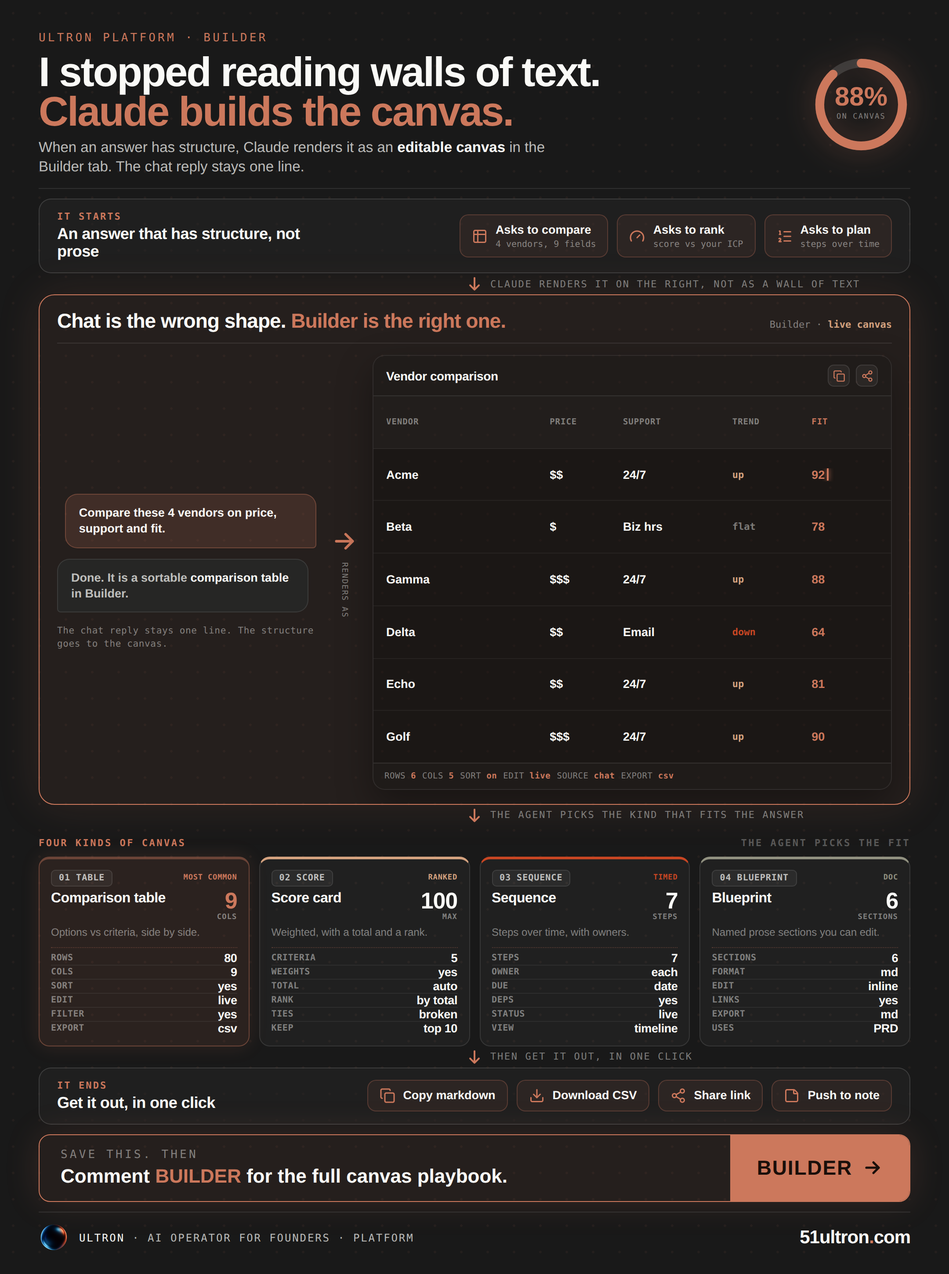
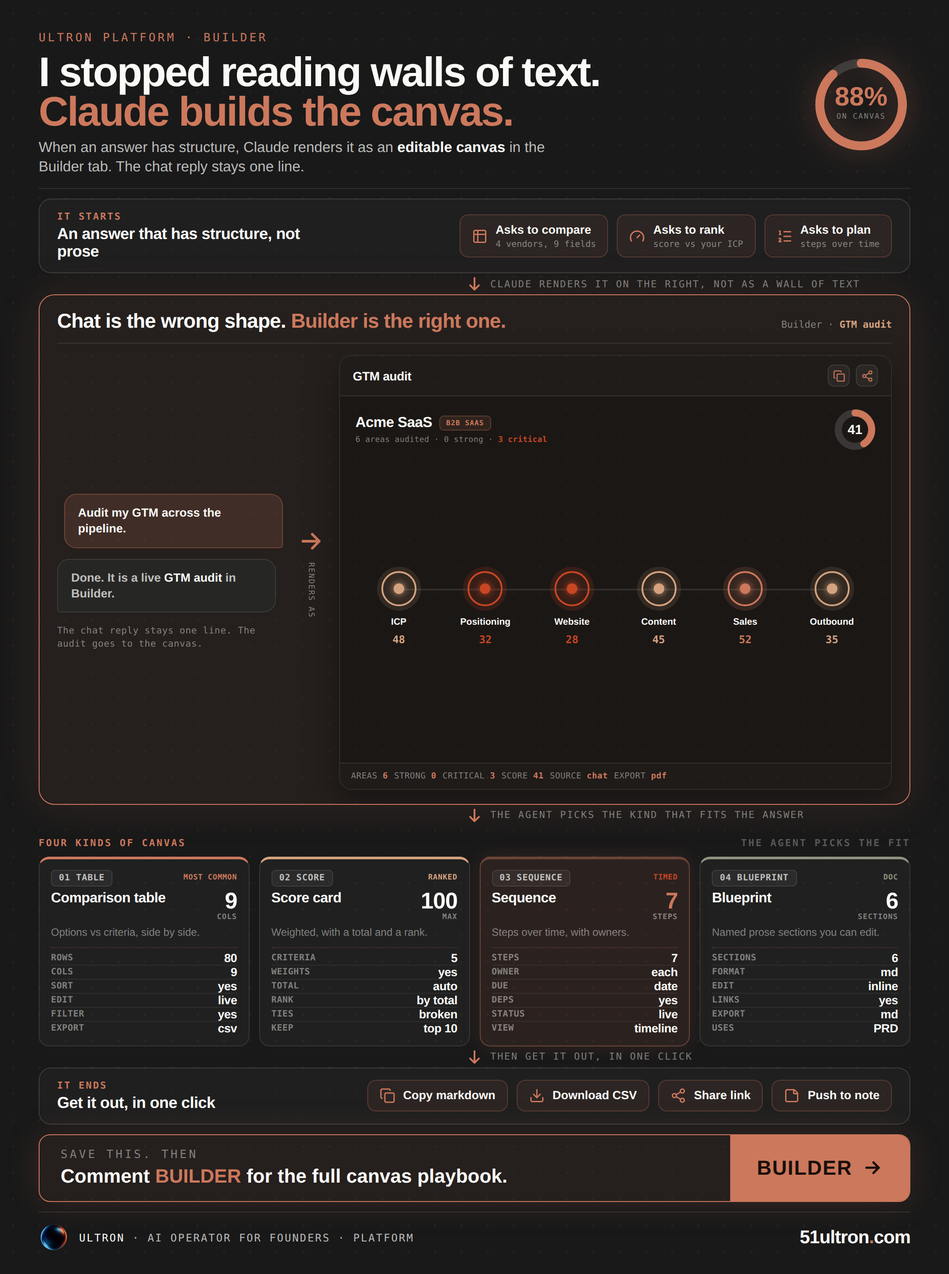
content: swap Builder focal to a mini GTM audit (pipeline health)
Replaces the generic vendor-comparison number table with a visual modeled on
the real Ultron GTM audit canvas: company header + 41/100 score ring + a
6-stage pipeline-health strip (ICP -> Positioning -> Website -> Content ->
Sales -> Outbound), nodes color-coded by score band (critical/weak/ok) in the
Dark Ultron palette. Chat prompt becomes 'Audit my GTM', focal meta + canvas
title now 'GTM audit', highlighted canvas-kind moves from Table to Sequence.
Both variants, 1080x1450 (scrollHeight verified), DM fonts, logo base64, scrubbed.

https://claude.ai/code/session_018fS7xMwDiJUxoNS3zo3BKw

diff --git a/content/docs-07-builder-linkedin-journey.html b/content/docs-07-builder-linkedin-journey.html
@@ -34,7 +34,7 @@ body{background:#0d0d0d;display:flex;justify-content:center;padding:24px 0;font-
 .focal-h .h{font-size:23px;font-weight:900;letter-spacing:-.5px;color:var(--ivory);}.focal-h .h em{color:var(--book);font-style:normal;}
 .focal-h .meta{margin-left:auto;font-family:'DM Mono',monospace;font-size:11px;color:var(--ink46);}.focal-h .meta b{color:var(--kraft);font-weight:700;}
 .split2{flex:1;min-height:0;display:flex;align-items:stretch;gap:16px;padding-top:13px;}
-.chatcol{width:31%;display:flex;flex-direction:column;justify-content:center;gap:12px;flex-shrink:0;}
+.chatcol{width:27%;display:flex;flex-direction:column;justify-content:center;gap:12px;flex-shrink:0;}
 .cbub{padding:12px 15px;font-size:13.5px;font-weight:600;line-height:1.32;max-width:97%;}
 .cbub.u{background:rgba(204,120,92,.16);border:1px solid rgba(204,120,92,.34);color:var(--ivory);align-self:flex-end;border-radius:14px 14px 4px 14px;}
 .cbub.a{background:var(--slate2);border:1px solid var(--rule);color:var(--ink70);align-self:flex-start;border-radius:14px 14px 14px 4px;}
@@ -47,17 +47,27 @@ body{background:#0d0d0d;display:flex;justify-content:center;padding:24px 0;font-
 .cv-bar{display:flex;align-items:center;justify-content:space-between;padding:10px 15px;border-bottom:1px solid var(--rule);background:rgba(255,255,255,.025);}
 .cv-nm{font-size:14px;font-weight:800;color:var(--ivory);letter-spacing:-.2px;}
 .cv-act{display:flex;gap:7px;}.cv-act i{width:25px;height:25px;border-radius:7px;background:rgba(250,250,247,.05);border:1px solid var(--rule);display:flex;align-items:center;justify-content:center;}.cv-act i svg{width:14px;height:14px;}
-.cvtbl{flex:1;display:flex;flex-direction:column;}
-.cvr{display:grid;grid-template-columns:1.3fr .55fr .85fr .6fr .55fr;gap:8px;align-items:center;padding:0 15px;border-bottom:1px solid rgba(250,250,247,.05);}
-.cvtbl .cvr{flex:1;}
-.cvr:last-child{border-bottom:none;}
-.cvr span{font-size:13.5px;font-weight:700;color:var(--ivory);white-space:nowrap;overflow:hidden;text-overflow:ellipsis;}
-.cvr.h{background:rgba(255,255,255,.03);}
-.cvr.h span{font-family:'DM Mono',monospace;font-size:9.5px;font-weight:600;letter-spacing:.05em;text-transform:uppercase;color:var(--ink46);}
-.cvr .srt,.cvr.h .srt{color:var(--book);}
-.cvr .up{color:var(--kraft);font-size:11px;font-family:'DM Mono',monospace;}.cvr .dn{color:var(--book-d);font-size:11px;font-family:'DM Mono',monospace;}.cvr .fl{color:var(--ink46);font-size:11px;font-family:'DM Mono',monospace;}
-.edit{position:relative;color:var(--book) !important;}
-.edit::after{content:'';display:inline-block;width:2px;height:14px;background:var(--book);margin-left:2px;vertical-align:-2px;box-shadow:0 0 6px var(--book);}
+.gaud{flex:1;display:flex;flex-direction:column;padding:15px 18px;gap:14px;min-height:0;}
+.gaud-h{display:flex;align-items:center;gap:11px;flex-shrink:0;}
+.gaud-co{display:flex;align-items:center;gap:8px;font-size:16.5px;font-weight:800;color:var(--ivory);letter-spacing:-.3px;}
+.gaud-tag{font-family:'DM Mono',monospace;font-size:8px;font-weight:600;letter-spacing:.07em;text-transform:uppercase;color:var(--book);background:rgba(204,120,92,.12);border:1px solid rgba(204,120,92,.3);padding:3px 7px;border-radius:5px;}
+.gaud-sub{font-family:'DM Mono',monospace;font-size:9px;color:var(--ink46);margin-top:5px;letter-spacing:.02em;}
+.gaud-sub b{color:var(--book-d);font-weight:600;}
+.gaud-ring{margin-left:auto;position:relative;width:46px;height:46px;display:flex;align-items:center;justify-content:center;flex-shrink:0;}
+.gaud-ring svg{width:46px;height:46px;transform:rotate(-90deg);}
+.gaud-ring .gt{fill:none;stroke:var(--ink14);stroke-width:8;}
+.gaud-ring .ga{fill:none;stroke:var(--book);stroke-width:8;stroke-linecap:round;}
+.gaud-ring .gn{position:absolute;font-size:15px;font-weight:900;color:var(--ivory);line-height:1;}
+.pipe{flex:1;display:flex;align-items:stretch;min-height:0;}
+.pstage{flex:1;display:flex;flex-direction:column;align-items:center;justify-content:center;gap:8px;min-width:0;}
+.ptop{position:relative;width:100%;height:50px;display:flex;align-items:center;justify-content:center;}
+.ptop::before,.ptop::after{content:'';position:absolute;top:50%;height:2px;background:var(--rule);width:50%;}
+.ptop::before{left:0;}.ptop::after{right:0;}
+.pstage:first-child .ptop::before{display:none;}.pstage:last-child .ptop::after{display:none;}
+.pnode{position:relative;z-index:1;width:40px;height:40px;border-radius:50%;border:2px solid var(--sc);background:var(--scbg);display:flex;align-items:center;justify-content:center;box-shadow:0 0 0 5px var(--scbg);}
+.pnode .pdot{width:12px;height:12px;border-radius:50%;background:var(--sc);box-shadow:0 0 8px var(--sc);}
+.plabel{font-size:10.5px;font-weight:700;color:var(--ivory);text-align:center;line-height:1.08;}
+.pscore{font-family:'DM Mono',monospace;font-size:12px;font-weight:600;color:var(--sc);line-height:1;}
 .cvstats{flex-shrink:0;display:flex;gap:7px;padding:9px 13px;border-top:1px solid var(--rule);background:rgba(255,255,255,.02);flex-wrap:wrap;}
 .cvstat{font-family:'DM Mono',monospace;font-size:9.5px;letter-spacing:.03em;color:var(--ink46);}.cvstat b{color:var(--book);font-weight:600;}
 /* KINDS strip */
@@ -111,26 +121,28 @@ body{background:#0d0d0d;display:flex;justify-content:center;padding:24px 0;font-
 
 <div class="arrow"><svg viewBox="0 0 24 24"><path d="M12 4v16M6 14l6 6 6-6"/></svg><span class="lbl">Claude renders it on the right, not as a wall of text</span></div>
 
-<div class="focal"><div class="focal-h"><div class="h">Chat is the wrong shape. <em>Builder is the right one.</em></div><div class="meta">Builder &middot; <b>live canvas</b></div></div>
+<div class="focal"><div class="focal-h"><div class="h">Chat is the wrong shape. <em>Builder is the right one.</em></div><div class="meta">Builder &middot; <b>GTM audit</b></div></div>
 <div class="split2">
 <div class="chatcol">
-<div class="cbub u">Compare these 4 vendors on price, support and fit.</div>
-<div class="cbub a">Done. It is a sortable <b>comparison table</b> in Builder.</div>
-<div class="chint">The chat reply stays one line. The structure goes to the canvas.</div>
+<div class="cbub u">Audit my GTM across the pipeline.</div>
+<div class="cbub a">Done. It is a live <b>GTM audit</b> in Builder.</div>
+<div class="chint">The chat reply stays one line. The audit goes to the canvas.</div>
 </div>
 <div class="sarrow2"><svg viewBox="0 0 24 24"><path d="M5 12h14M13 6l6 6-6 6"/></svg><span>renders as</span></div>
 <div class="cv">
-<div class="cv-bar"><span class="cv-nm">Vendor comparison</span><div class="cv-act"><i><svg xmlns="http://www.w3.org/2000/svg" width="1em" height="1em" viewBox="0 0 24 24"><g fill="none" stroke="#CC785C" stroke-linecap="round" stroke-linejoin="round" stroke-width="2"><rect width="14" height="14" x="8" y="8" rx="2" ry="2"/><path d="M4 16c-1.1 0-2-.9-2-2V4c0-1.1.9-2 2-2h10c1.1 0 2 .9 2 2"/></g></svg></i><i><svg xmlns="http://www.w3.org/2000/svg" width="1em" height="1em" viewBox="0 0 24 24"><g fill="none" stroke="#CC785C" stroke-linecap="round" stroke-linejoin="round" stroke-width="2"><circle cx="18" cy="5" r="3"/><circle cx="6" cy="12" r="3"/><circle cx="18" cy="19" r="3"/><path d="m8.59 13.51l6.83 3.98m-.01-10.98l-6.82 3.98"/></g></svg></i></div></div>
-<div class="cvtbl">
-<div class="cvr h"><span>Vendor</span><span>Price</span><span>Support</span><span>Trend</span><span class="srt">Fit</span></div>
-<div class="cvr"><span>Acme</span><span>$$</span><span>24/7</span><span class="up">up</span><span class="edit srt">92</span></div>
-<div class="cvr"><span>Beta</span><span>$</span><span>Biz hrs</span><span class="fl">flat</span><span class="srt">78</span></div>
-<div class="cvr"><span>Gamma</span><span>$$$</span><span>24/7</span><span class="up">up</span><span class="srt">88</span></div>
-<div class="cvr"><span>Delta</span><span>$$</span><span>Email</span><span class="dn">down</span><span class="srt">64</span></div>
-<div class="cvr"><span>Echo</span><span>$$</span><span>24/7</span><span class="up">up</span><span class="srt">81</span></div>
-<div class="cvr"><span>Golf</span><span>$$$</span><span>24/7</span><span class="up">up</span><span class="srt">90</span></div>
+<div class="cv-bar"><span class="cv-nm">GTM audit</span><div class="cv-act"><i><svg xmlns="http://www.w3.org/2000/svg" width="1em" height="1em" viewBox="0 0 24 24"><g fill="none" stroke="#CC785C" stroke-linecap="round" stroke-linejoin="round" stroke-width="2"><rect width="14" height="14" x="8" y="8" rx="2" ry="2"/><path d="M4 16c-1.1 0-2-.9-2-2V4c0-1.1.9-2 2-2h10c1.1 0 2 .9 2 2"/></g></svg></i><i><svg xmlns="http://www.w3.org/2000/svg" width="1em" height="1em" viewBox="0 0 24 24"><g fill="none" stroke="#CC785C" stroke-linecap="round" stroke-linejoin="round" stroke-width="2"><circle cx="18" cy="5" r="3"/><circle cx="6" cy="12" r="3"/><circle cx="18" cy="19" r="3"/><path d="m8.59 13.51l6.83 3.98m-.01-10.98l-6.82 3.98"/></g></svg></i></div></div>
+<div class="gaud">
+<div class="gaud-h"><div><div class="gaud-co">Acme SaaS <span class="gaud-tag">B2B SAAS</span></div><div class="gaud-sub">6 areas audited &middot; 0 strong &middot; <b>3 critical</b></div></div><div class="gaud-ring"><svg viewBox="0 0 46 46"><circle class="gt" cx="23" cy="23" r="19"/><circle class="ga" cx="23" cy="23" r="19" stroke-dasharray="49 119.4"/></svg><span class="gn">41</span></div></div>
+<div class="pipe">
+<div class="pstage" style="--sc:var(--kraft);--scbg:rgba(212,162,127,.13)"><div class="ptop"><div class="pnode"><div class="pdot"></div></div></div><div class="plabel">ICP</div><div class="pscore">48</div></div>
+<div class="pstage" style="--sc:var(--book-d);--scbg:rgba(200,70,35,.16)"><div class="ptop"><div class="pnode"><div class="pdot"></div></div></div><div class="plabel">Positioning</div><div class="pscore">32</div></div>
+<div class="pstage" style="--sc:var(--book-d);--scbg:rgba(200,70,35,.16)"><div class="ptop"><div class="pnode"><div class="pdot"></div></div></div><div class="plabel">Website</div><div class="pscore">28</div></div>
+<div class="pstage" style="--sc:var(--kraft);--scbg:rgba(212,162,127,.13)"><div class="ptop"><div class="pnode"><div class="pdot"></div></div></div><div class="plabel">Content</div><div class="pscore">45</div></div>
+<div class="pstage" style="--sc:var(--book);--scbg:rgba(204,120,92,.16)"><div class="ptop"><div class="pnode"><div class="pdot"></div></div></div><div class="plabel">Sales</div><div class="pscore">52</div></div>
+<div class="pstage" style="--sc:var(--kraft);--scbg:rgba(212,162,127,.13)"><div class="ptop"><div class="pnode"><div class="pdot"></div></div></div><div class="plabel">Outbound</div><div class="pscore">35</div></div>
 </div>
-<div class="cvstats"><span class="cvstat">ROWS <b>6</b></span><span class="cvstat">COLS <b>5</b></span><span class="cvstat">SORT <b>on</b></span><span class="cvstat">EDIT <b>live</b></span><span class="cvstat">SOURCE <b>chat</b></span><span class="cvstat">EXPORT <b>csv</b></span></div>
+</div>
+<div class="cvstats"><span class="cvstat">AREAS <b>6</b></span><span class="cvstat">STRONG <b>0</b></span><span class="cvstat">CRITICAL <b>3</b></span><span class="cvstat">SCORE <b>41</b></span><span class="cvstat">SOURCE <b>chat</b></span><span class="cvstat">EXPORT <b>pdf</b></span></div>
 </div>
 </div></div>
 
@@ -139,9 +151,9 @@ body{background:#0d0d0d;display:flex;justify-content:center;padding:24px 0;font-
 <div class="mod"><div class="sec"><span>Four kinds of canvas</span><span class="sx">the agent picks the fit</span></div>
 <div class="kinds">
 
-<div class="kcard on" style="--c:var(--book)">
+<div class="kcard" style="--c:var(--book)">
 <div class="fct"><span class="fk">01 TABLE</span><span class="kbest">most common</span></div>
-<div class="ftop"><div class="ftt">Comparison table</div><div class="fnumw"><div class="fnum" style="color:var(--book)">9</div><div class="funit">COLS</div></div></div>
+<div class="ftop"><div class="ftt">Comparison table</div><div class="fnumw"><div class="fnum">9</div><div class="funit">COLS</div></div></div>
 <div class="fdesc">Options vs criteria, side by side.</div>
 <div class="fr"><div class="row"><span class="rk">Rows</span><span class="rv">80</span></div><div class="row"><span class="rk">Cols</span><span class="rv">9</span></div><div class="row"><span class="rk">Sort</span><span class="rv">yes</span></div><div class="row"><span class="rk">Edit</span><span class="rv">live</span></div><div class="row"><span class="rk">Filter</span><span class="rv">yes</span></div><div class="row"><span class="rk">Export</span><span class="rv">csv</span></div></div>
 </div>
@@ -153,9 +165,9 @@ body{background:#0d0d0d;display:flex;justify-content:center;padding:24px 0;font-
 <div class="fr"><div class="row"><span class="rk">Criteria</span><span class="rv">5</span></div><div class="row"><span class="rk">Weights</span><span class="rv">yes</span></div><div class="row"><span class="rk">Total</span><span class="rv">auto</span></div><div class="row"><span class="rk">Rank</span><span class="rv">by total</span></div><div class="row"><span class="rk">Ties</span><span class="rv">broken</span></div><div class="row"><span class="rk">Keep</span><span class="rv">top 10</span></div></div>
 </div>
 
-<div class="kcard" style="--c:var(--book-d)">
+<div class="kcard on" style="--c:var(--book-d)">
 <div class="fct"><span class="fk">03 SEQUENCE</span><span class="kbest">timed</span></div>
-<div class="ftop"><div class="ftt">Sequence</div><div class="fnumw"><div class="fnum">7</div><div class="funit">Steps</div></div></div>
+<div class="ftop"><div class="ftt">Sequence</div><div class="fnumw"><div class="fnum" style="color:var(--book)">7</div><div class="funit">Steps</div></div></div>
 <div class="fdesc">Steps over time, with owners.</div>
 <div class="fr"><div class="row"><span class="rk">Steps</span><span class="rv">7</span></div><div class="row"><span class="rk">Owner</span><span class="rv">each</span></div><div class="row"><span class="rk">Due</span><span class="rv">date</span></div><div class="row"><span class="rk">Deps</span><span class="rv">yes</span></div><div class="row"><span class="rk">Status</span><span class="rv">live</span></div><div class="row"><span class="rk">View</span><span class="rv">timeline</span></div></div>
 </div>

diff --git a/content/docs-07-builder-linkedin-tiles.html b/content/docs-07-builder-linkedin-tiles.html
@@ -34,7 +34,7 @@ body{background:#0d0d0d;display:flex;justify-content:center;padding:24px 0;font-
 .focal-h .h{font-size:23px;font-weight:900;letter-spacing:-.5px;color:var(--ivory);}.focal-h .h em{color:var(--book);font-style:normal;}
 .focal-h .meta{margin-left:auto;font-family:'DM Mono',monospace;font-size:11px;color:var(--ink46);}.focal-h .meta b{color:var(--kraft);font-weight:700;}
 .split2{flex:1;min-height:0;display:flex;align-items:stretch;gap:16px;padding-top:13px;}
-.chatcol{width:31%;display:flex;flex-direction:column;justify-content:center;gap:12px;flex-shrink:0;}
+.chatcol{width:27%;display:flex;flex-direction:column;justify-content:center;gap:12px;flex-shrink:0;}
 .cbub{padding:12px 15px;font-size:13.5px;font-weight:600;line-height:1.32;max-width:97%;}
 .cbub.u{background:rgba(204,120,92,.16);border:1px solid rgba(204,120,92,.34);color:var(--ivory);align-self:flex-end;border-radius:14px 14px 4px 14px;}
 .cbub.a{background:var(--slate2);border:1px solid var(--rule);color:var(--ink70);align-self:flex-start;border-radius:14px 14px 14px 4px;}
@@ -47,17 +47,27 @@ body{background:#0d0d0d;display:flex;justify-content:center;padding:24px 0;font-
 .cv-bar{display:flex;align-items:center;justify-content:space-between;padding:10px 15px;border-bottom:1px solid var(--rule);background:rgba(255,255,255,.025);}
 .cv-nm{font-size:14px;font-weight:800;color:var(--ivory);letter-spacing:-.2px;}
 .cv-act{display:flex;gap:7px;}.cv-act i{width:25px;height:25px;border-radius:7px;background:rgba(250,250,247,.05);border:1px solid var(--rule);display:flex;align-items:center;justify-content:center;}.cv-act i svg{width:14px;height:14px;}
-.cvtbl{flex:1;display:flex;flex-direction:column;}
-.cvr{display:grid;grid-template-columns:1.3fr .55fr .85fr .6fr .55fr;gap:8px;align-items:center;padding:0 15px;border-bottom:1px solid rgba(250,250,247,.05);}
-.cvtbl .cvr{flex:1;}
-.cvr:last-child{border-bottom:none;}
-.cvr span{font-size:13.5px;font-weight:700;color:var(--ivory);white-space:nowrap;overflow:hidden;text-overflow:ellipsis;}
-.cvr.h{background:rgba(255,255,255,.03);}
-.cvr.h span{font-family:'DM Mono',monospace;font-size:9.5px;font-weight:600;letter-spacing:.05em;text-transform:uppercase;color:var(--ink46);}
-.cvr .srt,.cvr.h .srt{color:var(--book);}
-.cvr .up{color:var(--kraft);font-size:11px;font-family:'DM Mono',monospace;}.cvr .dn{color:var(--book-d);font-size:11px;font-family:'DM Mono',monospace;}.cvr .fl{color:var(--ink46);font-size:11px;font-family:'DM Mono',monospace;}
-.edit{position:relative;color:var(--book) !important;}
-.edit::after{content:'';display:inline-block;width:2px;height:14px;background:var(--book);margin-left:2px;vertical-align:-2px;box-shadow:0 0 6px var(--book);}
+.gaud{flex:1;display:flex;flex-direction:column;padding:15px 18px;gap:14px;min-height:0;}
+.gaud-h{display:flex;align-items:center;gap:11px;flex-shrink:0;}
+.gaud-co{display:flex;align-items:center;gap:8px;font-size:16.5px;font-weight:800;color:var(--ivory);letter-spacing:-.3px;}
+.gaud-tag{font-family:'DM Mono',monospace;font-size:8px;font-weight:600;letter-spacing:.07em;text-transform:uppercase;color:var(--book);background:rgba(204,120,92,.12);border:1px solid rgba(204,120,92,.3);padding:3px 7px;border-radius:5px;}
+.gaud-sub{font-family:'DM Mono',monospace;font-size:9px;color:var(--ink46);margin-top:5px;letter-spacing:.02em;}
+.gaud-sub b{color:var(--book-d);font-weight:600;}
+.gaud-ring{margin-left:auto;position:relative;width:46px;height:46px;display:flex;align-items:center;justify-content:center;flex-shrink:0;}
+.gaud-ring svg{width:46px;height:46px;transform:rotate(-90deg);}
+.gaud-ring .gt{fill:none;stroke:var(--ink14);stroke-width:8;}
+.gaud-ring .ga{fill:none;stroke:var(--book);stroke-width:8;stroke-linecap:round;}
+.gaud-ring .gn{position:absolute;font-size:15px;font-weight:900;color:var(--ivory);line-height:1;}
+.pipe{flex:1;display:flex;align-items:stretch;min-height:0;}
+.pstage{flex:1;display:flex;flex-direction:column;align-items:center;justify-content:center;gap:8px;min-width:0;}
+.ptop{position:relative;width:100%;height:50px;display:flex;align-items:center;justify-content:center;}
+.ptop::before,.ptop::after{content:'';position:absolute;top:50%;height:2px;background:var(--rule);width:50%;}
+.ptop::before{left:0;}.ptop::after{right:0;}
+.pstage:first-child .ptop::before{display:none;}.pstage:last-child .ptop::after{display:none;}
+.pnode{position:relative;z-index:1;width:40px;height:40px;border-radius:50%;border:2px solid var(--sc);background:var(--scbg);display:flex;align-items:center;justify-content:center;box-shadow:0 0 0 5px var(--scbg);}
+.pnode .pdot{width:12px;height:12px;border-radius:50%;background:var(--sc);box-shadow:0 0 8px var(--sc);}
+.plabel{font-size:10.5px;font-weight:700;color:var(--ivory);text-align:center;line-height:1.08;}
+.pscore{font-family:'DM Mono',monospace;font-size:12px;font-weight:600;color:var(--sc);line-height:1;}
 .cvstats{flex-shrink:0;display:flex;gap:7px;padding:9px 13px;border-top:1px solid var(--rule);background:rgba(255,255,255,.02);flex-wrap:wrap;}
 .cvstat{font-family:'DM Mono',monospace;font-size:9.5px;letter-spacing:.03em;color:var(--ink46);}.cvstat b{color:var(--book);font-weight:600;}
 /* KINDS strip */
@@ -110,26 +120,28 @@ body{background:#0d0d0d;display:flex;justify-content:center;padding:24px 0;font-
 
 <div class="arrow"><svg viewBox="0 0 24 24"><path d="M12 4v16M6 14l6 6 6-6"/></svg><span class="lbl">Claude renders it on the right, not as a wall of text</span></div>
 
-<div class="focal"><div class="focal-h"><div class="h">Chat is the wrong shape. <em>Builder is the right one.</em></div><div class="meta">Builder &middot; <b>live canvas</b></div></div>
+<div class="focal"><div class="focal-h"><div class="h">Chat is the wrong shape. <em>Builder is the right one.</em></div><div class="meta">Builder &middot; <b>GTM audit</b></div></div>
 <div class="split2">
 <div class="chatcol">
-<div class="cbub u">Compare these 4 vendors on price, support and fit.</div>
-<div class="cbub a">Done. It is a sortable <b>comparison table</b> in Builder.</div>
-<div class="chint">The chat reply stays one line. The structure goes to the canvas.</div>
+<div class="cbub u">Audit my GTM across the pipeline.</div>
+<div class="cbub a">Done. It is a live <b>GTM audit</b> in Builder.</div>
+<div class="chint">The chat reply stays one line. The audit goes to the canvas.</div>
 </div>
 <div class="sarrow2"><svg viewBox="0 0 24 24"><path d="M5 12h14M13 6l6 6-6 6"/></svg><span>renders as</span></div>
 <div class="cv">
-<div class="cv-bar"><span class="cv-nm">Vendor comparison</span><div class="cv-act"><i><svg xmlns="http://www.w3.org/2000/svg" width="1em" height="1em" viewBox="0 0 24 24"><g fill="none" stroke="#CC785C" stroke-linecap="round" stroke-linejoin="round" stroke-width="2"><rect width="14" height="14" x="8" y="8" rx="2" ry="2"/><path d="M4 16c-1.1 0-2-.9-2-2V4c0-1.1.9-2 2-2h10c1.1 0 2 .9 2 2"/></g></svg></i><i><svg xmlns="http://www.w3.org/2000/svg" width="1em" height="1em" viewBox="0 0 24 24"><g fill="none" stroke="#CC785C" stroke-linecap="round" stroke-linejoin="round" stroke-width="2"><circle cx="18" cy="5" r="3"/><circle cx="6" cy="12" r="3"/><circle cx="18" cy="19" r="3"/><path d="m8.59 13.51l6.83 3.98m-.01-10.98l-6.82 3.98"/></g></svg></i></div></div>
-<div class="cvtbl">
-<div class="cvr h"><span>Vendor</span><span>Price</span><span>Support</span><span>Trend</span><span class="srt">Fit</span></div>
-<div class="cvr"><span>Acme</span><span>$$</span><span>24/7</span><span class="up">up</span><span class="edit srt">92</span></div>
-<div class="cvr"><span>Beta</span><span>$</span><span>Biz hrs</span><span class="fl">flat</span><span class="srt">78</span></div>
-<div class="cvr"><span>Gamma</span><span>$$$</span><span>24/7</span><span class="up">up</span><span class="srt">88</span></div>
-<div class="cvr"><span>Delta</span><span>$$</span><span>Email</span><span class="dn">down</span><span class="srt">64</span></div>
-<div class="cvr"><span>Echo</span><span>$$</span><span>24/7</span><span class="up">up</span><span class="srt">81</span></div>
-<div class="cvr"><span>Golf</span><span>$$$</span><span>24/7</span><span class="up">up</span><span class="srt">90</span></div>
+<div class="cv-bar"><span class="cv-nm">GTM audit</span><div class="cv-act"><i><svg xmlns="http://www.w3.org/2000/svg" width="1em" height="1em" viewBox="0 0 24 24"><g fill="none" stroke="#CC785C" stroke-linecap="round" stroke-linejoin="round" stroke-width="2"><rect width="14" height="14" x="8" y="8" rx="2" ry="2"/><path d="M4 16c-1.1 0-2-.9-2-2V4c0-1.1.9-2 2-2h10c1.1 0 2 .9 2 2"/></g></svg></i><i><svg xmlns="http://www.w3.org/2000/svg" width="1em" height="1em" viewBox="0 0 24 24"><g fill="none" stroke="#CC785C" stroke-linecap="round" stroke-linejoin="round" stroke-width="2"><circle cx="18" cy="5" r="3"/><circle cx="6" cy="12" r="3"/><circle cx="18" cy="19" r="3"/><path d="m8.59 13.51l6.83 3.98m-.01-10.98l-6.82 3.98"/></g></svg></i></div></div>
+<div class="gaud">
+<div class="gaud-h"><div><div class="gaud-co">Acme SaaS <span class="gaud-tag">B2B SAAS</span></div><div class="gaud-sub">6 areas audited &middot; 0 strong &middot; <b>3 critical</b></div></div><div class="gaud-ring"><svg viewBox="0 0 46 46"><circle class="gt" cx="23" cy="23" r="19"/><circle class="ga" cx="23" cy="23" r="19" stroke-dasharray="49 119.4"/></svg><span class="gn">41</span></div></div>
+<div class="pipe">
+<div class="pstage" style="--sc:var(--kraft);--scbg:rgba(212,162,127,.13)"><div class="ptop"><div class="pnode"><div class="pdot"></div></div></div><div class="plabel">ICP</div><div class="pscore">48</div></div>
+<div class="pstage" style="--sc:var(--book-d);--scbg:rgba(200,70,35,.16)"><div class="ptop"><div class="pnode"><div class="pdot"></div></div></div><div class="plabel">Positioning</div><div class="pscore">32</div></div>
+<div class="pstage" style="--sc:var(--book-d);--scbg:rgba(200,70,35,.16)"><div class="ptop"><div class="pnode"><div class="pdot"></div></div></div><div class="plabel">Website</div><div class="pscore">28</div></div>
+<div class="pstage" style="--sc:var(--kraft);--scbg:rgba(212,162,127,.13)"><div class="ptop"><div class="pnode"><div class="pdot"></div></div></div><div class="plabel">Content</div><div class="pscore">45</div></div>
+<div class="pstage" style="--sc:var(--book);--scbg:rgba(204,120,92,.16)"><div class="ptop"><div class="pnode"><div class="pdot"></div></div></div><div class="plabel">Sales</div><div class="pscore">52</div></div>
+<div class="pstage" style="--sc:var(--kraft);--scbg:rgba(212,162,127,.13)"><div class="ptop"><div class="pnode"><div class="pdot"></div></div></div><div class="plabel">Outbound</div><div class="pscore">35</div></div>
 </div>
-<div class="cvstats"><span class="cvstat">ROWS <b>6</b></span><span class="cvstat">COLS <b>5</b></span><span class="cvstat">SORT <b>on</b></span><span class="cvstat">EDIT <b>live</b></span><span class="cvstat">SOURCE <b>chat</b></span><span class="cvstat">EXPORT <b>csv</b></span></div>
+</div>
+<div class="cvstats"><span class="cvstat">AREAS <b>6</b></span><span class="cvstat">STRONG <b>0</b></span><span class="cvstat">CRITICAL <b>3</b></span><span class="cvstat">SCORE <b>41</b></span><span class="cvstat">SOURCE <b>chat</b></span><span class="cvstat">EXPORT <b>pdf</b></span></div>
 </div>
 </div></div>
 
@@ -138,9 +150,9 @@ body{background:#0d0d0d;display:flex;justify-content:center;padding:24px 0;font-
 <div class="mod"><div class="sec"><span>Four kinds of canvas</span><span class="sx">the agent picks the fit</span></div>
 <div class="kinds">
 
-<div class="kcard on" style="--c:var(--book)">
+<div class="kcard" style="--c:var(--book)">
 <div class="fct"><span class="fk">01 TABLE</span><span class="kbest">most common</span></div>
-<div class="ftop"><div class="ftt">Comparison table</div><div class="fnumw"><div class="fnum" style="color:var(--book)">9</div><div class="funit">COLS</div></div></div>
+<div class="ftop"><div class="ftt">Comparison table</div><div class="fnumw"><div class="fnum">9</div><div class="funit">COLS</div></div></div>
 <div class="fdesc">Options vs criteria, side by side.</div>
 <div class="stats"><div class="stile"><div class="v">80</div><div class="l">Rows</div></div><div class="stile"><div class="v">9</div><div class="l">Cols</div></div><div class="stile"><div class="v">yes</div><div class="l">Sort</div></div><div class="stile"><div class="v">live</div><div class="l">Edit</div></div><div class="stile"><div class="v">yes</div><div class="l">Filter</div></div><div class="stile"><div class="v">csv</div><div class="l">Export</div></div></div>
 </div>
@@ -152,9 +164,9 @@ body{background:#0d0d0d;display:flex;justify-content:center;padding:24px 0;font-
 <div class="stats"><div class="stile"><div class="v">5</div><div class="l">Criteria</div></div><div class="stile"><div class="v">yes</div><div class="l">Weights</div></div><div class="stile"><div class="v">auto</div><div class="l">Total</div></div><div class="stile"><div class="v">by total</div><div class="l">Rank</div></div><div class="stile"><div class="v">broken</div><div class="l">Ties</div></div><div class="stile"><div class="v">top 10</div><div class="l">Keep</div></div></div>
 </div>
 
-<div class="kcard" style="--c:var(--book-d)">
+<div class="kcard on" style="--c:var(--book-d)">
 <div class="fct"><span class="fk">03 SEQUENCE</span><span class="kbest">timed</span></div>
-<div class="ftop"><div class="ftt">Sequence</div><div class="fnumw"><div class="fnum">7</div><div class="funit">Steps</div></div></div>
+<div class="ftop"><div class="ftt">Sequence</div><div class="fnumw"><div class="fnum" style="color:var(--book)">7</div><div class="funit">Steps</div></div></div>
 <div class="fdesc">Steps over time, with owners.</div>
 <div class="stats"><div class="stile"><div class="v">7</div><div class="l">Steps</div></div><div class="stile"><div class="v">each</div><div class="l">Owner</div></div><div class="stile"><div class="v">date</div><div class="l">Due</div></div><div class="stile"><div class="v">yes</div><div class="l">Deps</div></div><div class="stile"><div class="v">live</div><div class="l">Status</div></div><div class="stile"><div class="v">timeline</div><div class="l">View</div></div></div>
 </div>
